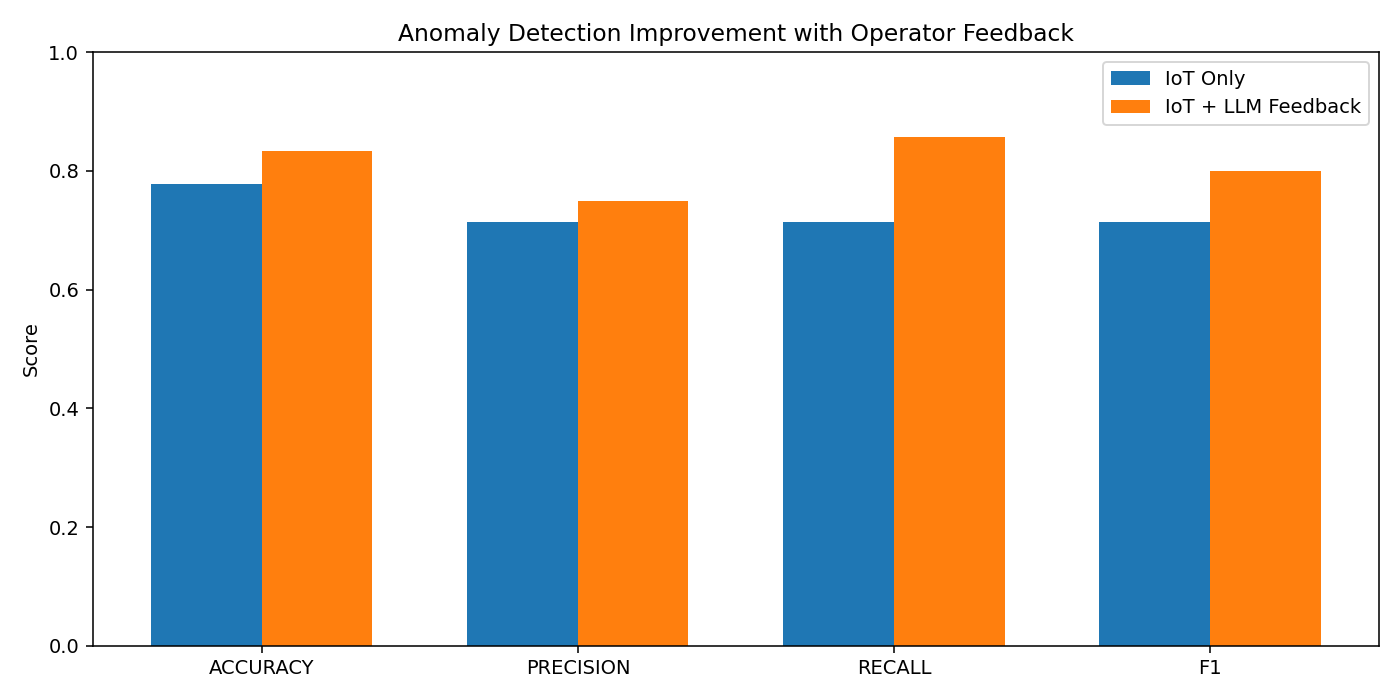
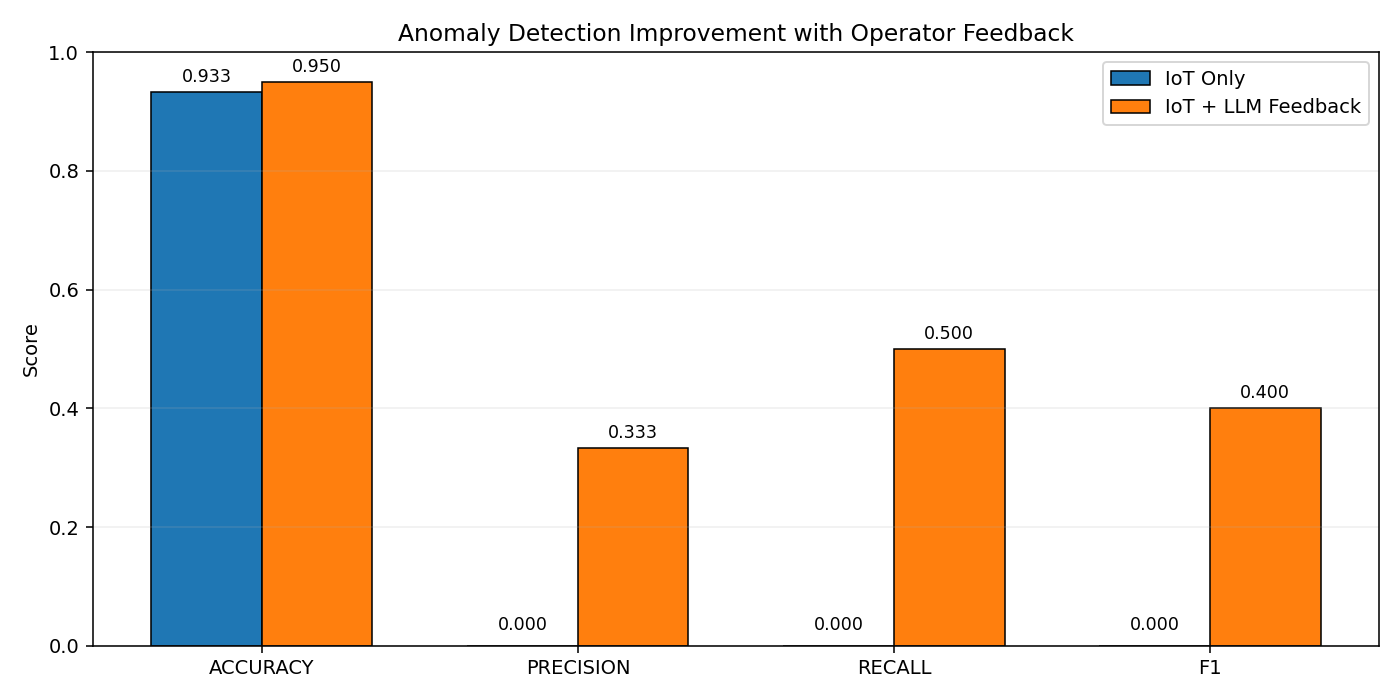
Improve metric chart readability for zero-value bars

diff --git a/src/iot_anomaly_guidance.py b/src/iot_anomaly_guidance.py
@@ -501,19 +501,47 @@ def plot_results(metrics_baseline: Dict[str, float], metrics_fused: Dict[str, fl
     x = np.arange(len(labels))
     width = 0.35
 
-    plt.figure(figsize=(10, 5))
-    plt.bar(x - width / 2, baseline_vals, width, label="IoT Only")
-    plt.bar(x + width / 2, fused_vals, width, label="IoT + LLM Feedback")
-    plt.xticks(x, [lbl.upper() for lbl in labels])
-    plt.ylim(0, 1)
-    plt.ylabel("Score")
-    plt.title("Anomaly Detection Improvement with Operator Feedback")
-    plt.legend()
-    plt.tight_layout()
+    fig, ax = plt.subplots(figsize=(10, 5))
+    baseline_bars = ax.bar(
+        x - width / 2,
+        baseline_vals,
+        width,
+        label="IoT Only",
+        edgecolor="black",
+        linewidth=0.8,
+    )
+    fused_bars = ax.bar(
+        x + width / 2,
+        fused_vals,
+        width,
+        label="IoT + LLM Feedback",
+        edgecolor="black",
+        linewidth=0.8,
+    )
+    ax.set_xticks(x, [lbl.upper() for lbl in labels])
+    ax.set_ylim(0, 1)
+    ax.set_ylabel("Score")
+    ax.set_title("Anomaly Detection Improvement with Operator Feedback")
+    ax.grid(axis="y", alpha=0.2)
+    ax.legend()
+
+    # Keep zero-height metrics readable by labeling each bar directly.
+    for bar in list(baseline_bars) + list(fused_bars):
+        h = float(bar.get_height())
+        ax.text(
+            bar.get_x() + bar.get_width() / 2,
+            max(h, 0.01) + 0.01,
+            f"{h:.3f}",
+            ha="center",
+            va="bottom",
+            fontsize=9,
+        )
+
+    fig.tight_layout()
 
     os.makedirs(os.path.dirname(out_path), exist_ok=True)
-    plt.savefig(out_path, dpi=140)
-    plt.close()
+    fig.savefig(out_path, dpi=140)
+    plt.close(fig)
 
 
 def plot_confusion_matrices(y_true: np.ndarray, preds: Dict[str, np.ndarray], out_path: str) -> None:
